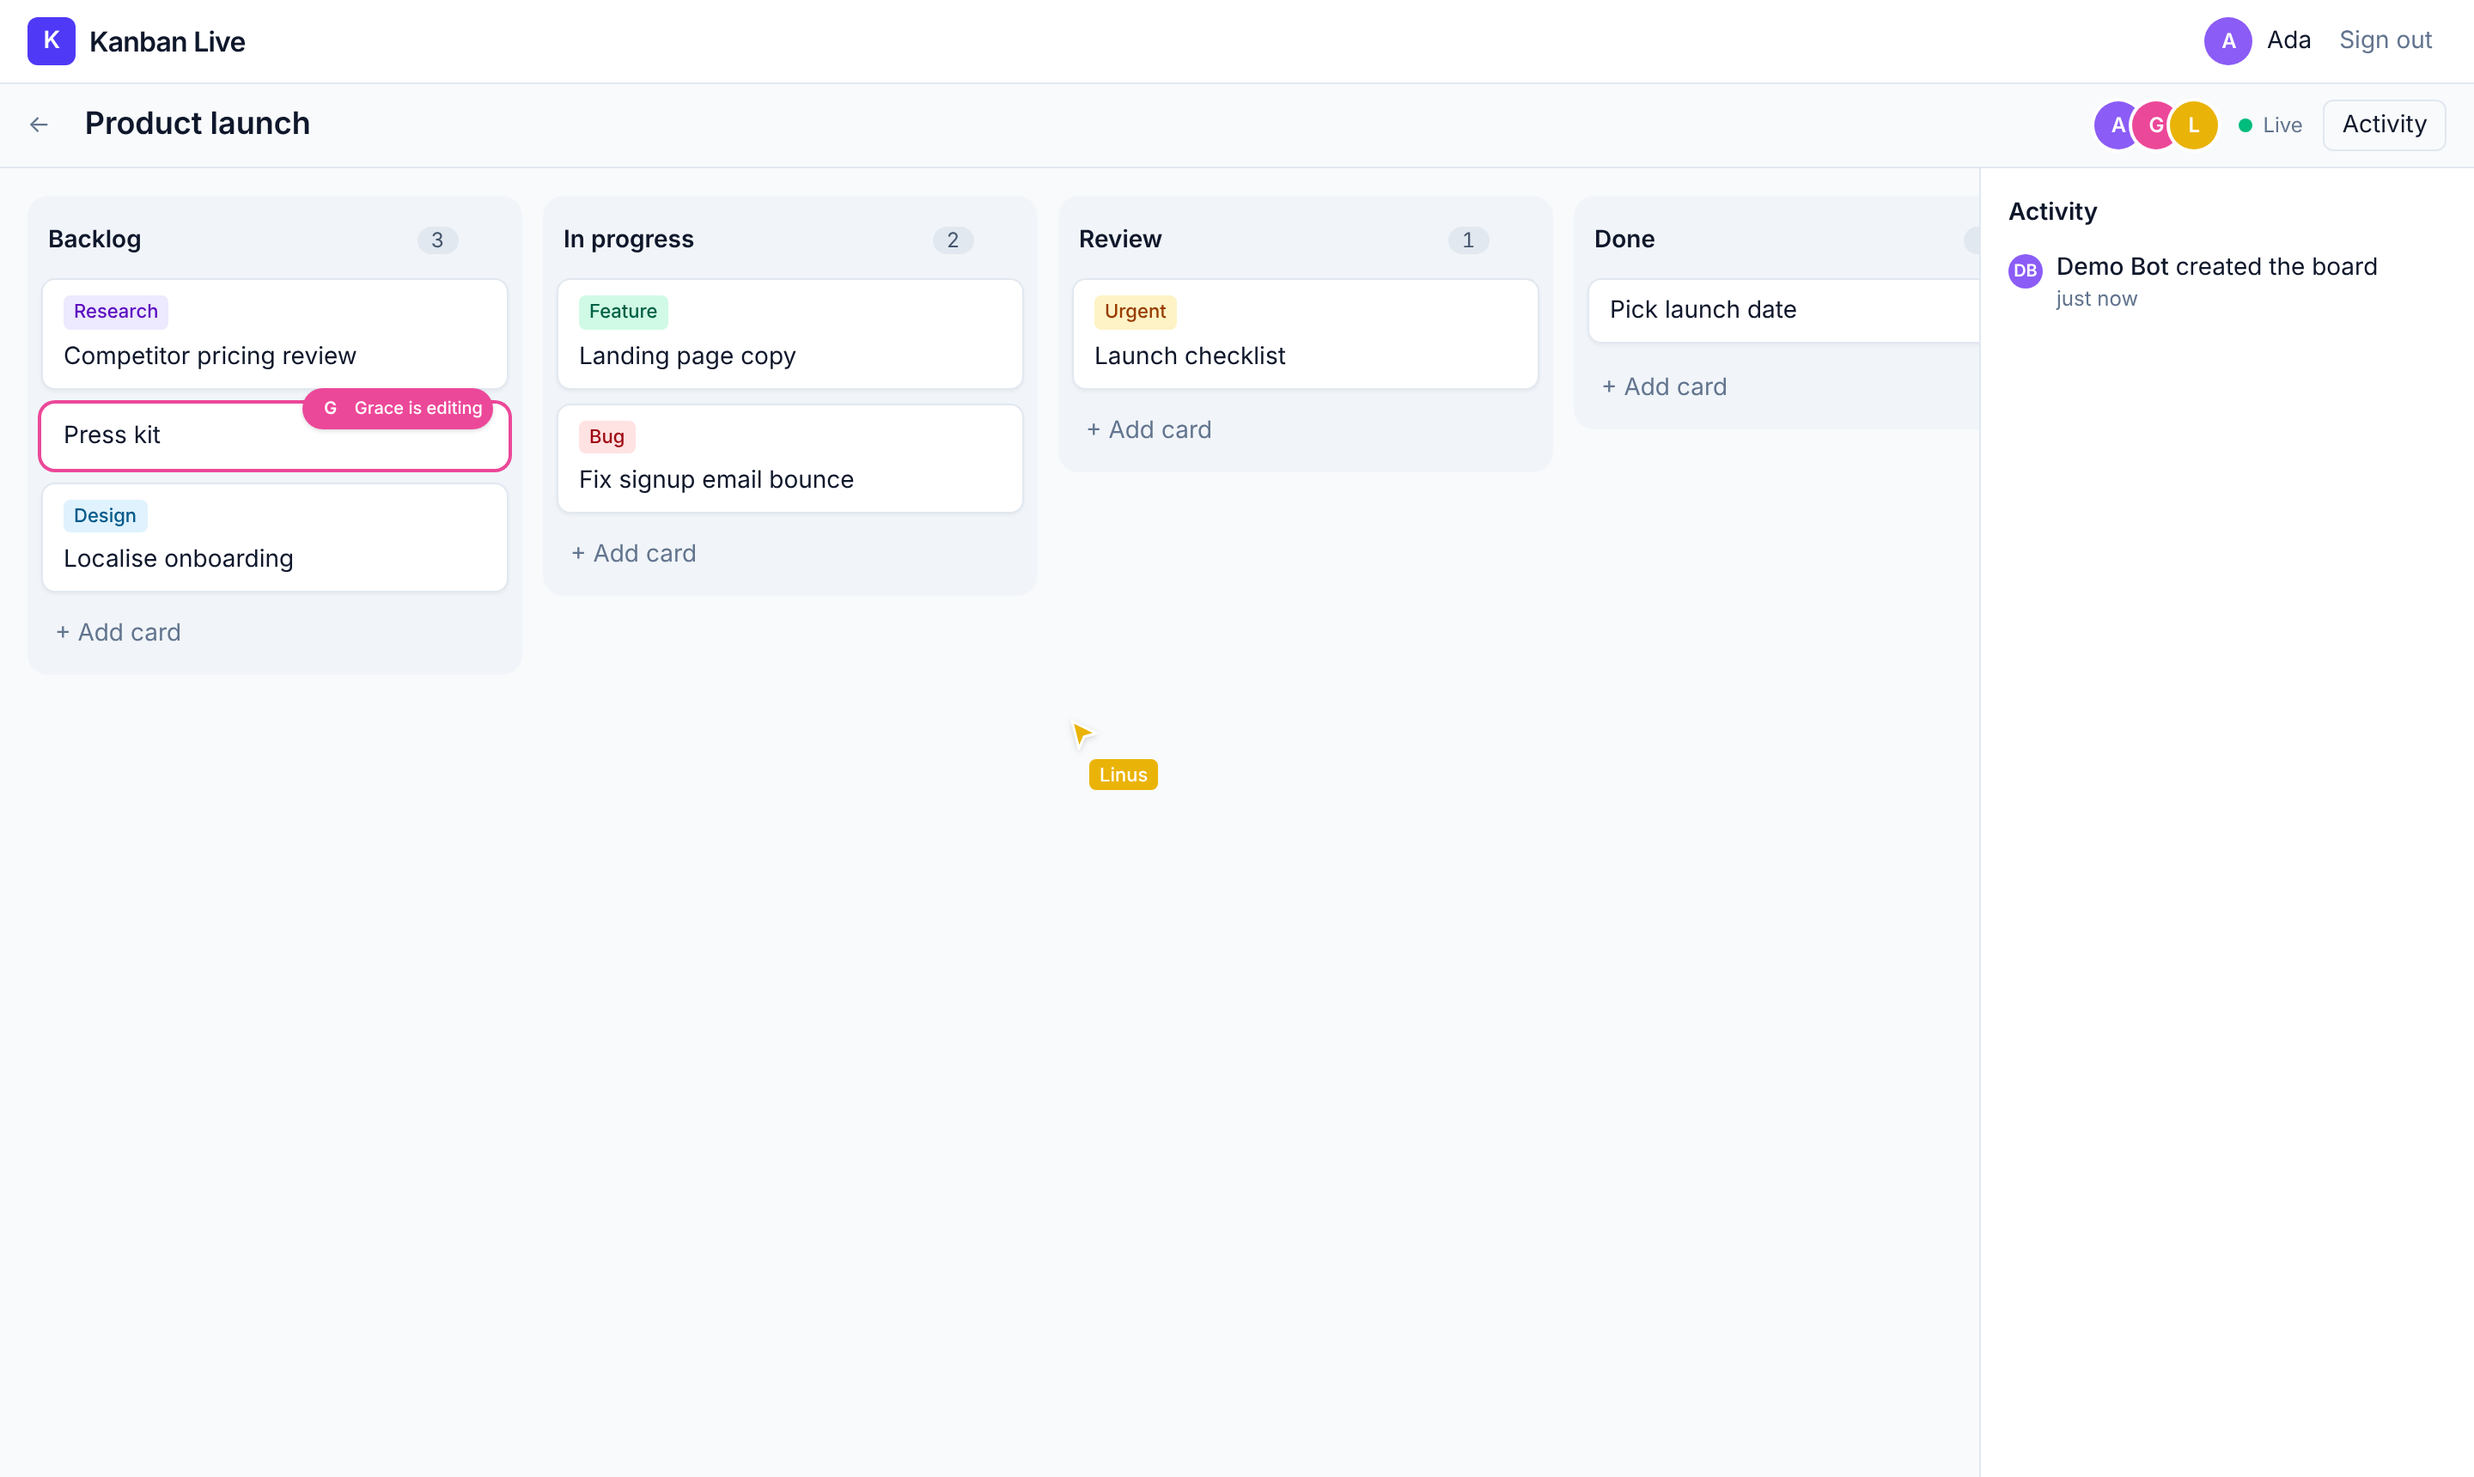
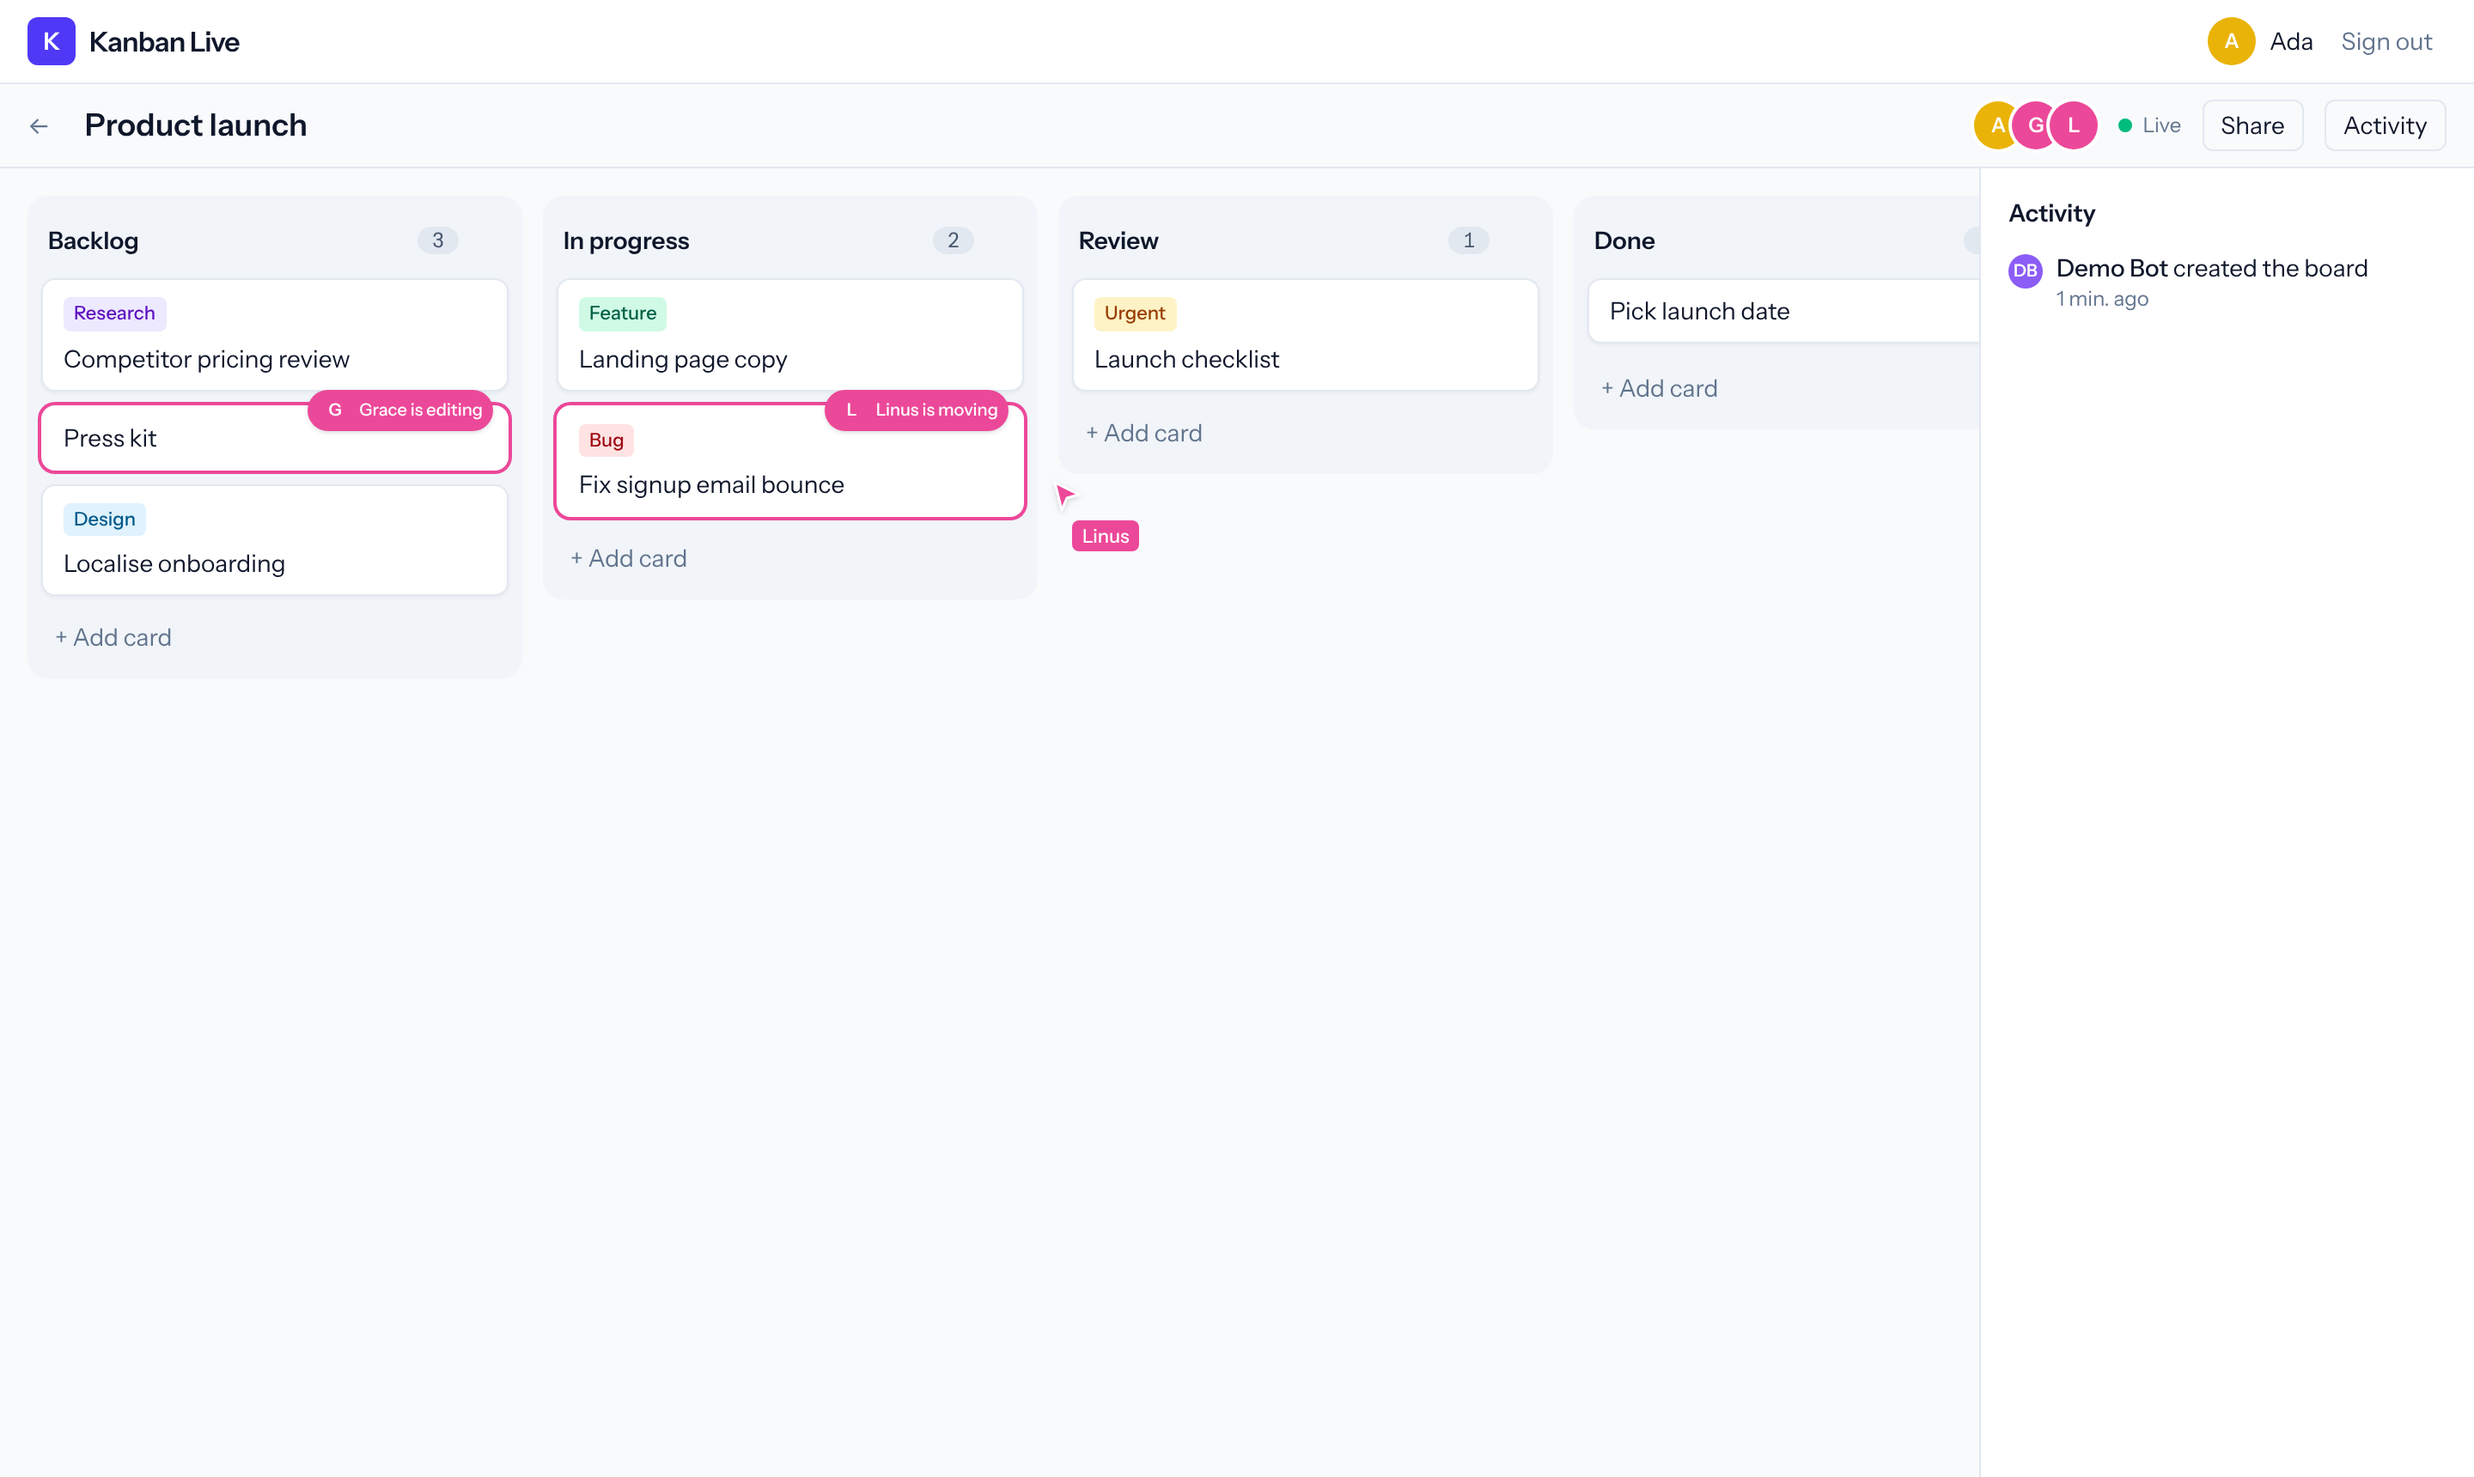
Regenerate README screenshots
The old ones predate membership and drag changes. The board shot now
shows the Share button and Linus mid-drag ("Linus is moving") next to
Grace's editing badge, and a new shot shows the Share dialog on a
private board with its invite link and members. Rendered in Instrument
Sans, the app's font.

Claude-Session: https://claude.ai/code/session_017nFfupb2TnByVd3cRXfH4r

diff --git a/README.md b/README.md
@@ -17,7 +17,7 @@ The project is about real-time, stateful work beyond plain request and response:
 **Stack:** Laravel 13 · PHP 8.4 · Laravel Reverb (WebSocket server, Pusher protocol) · Laravel Echo + pusher-js · Vue 3 ·
 Tailwind 4 · SQLite (any Laravel database works)
 
-![Three people on one board: Grace is editing "Press kit" and Linus's cursor is visible](docs/screenshot-board.png)
+![Three people on one board: Grace is editing "Press kit" while Linus drags "Fix signup email bounce", and his cursor is visible](docs/screenshot-board.png)
 
 <details>
 <summary>More screenshots</summary>
@@ -25,6 +25,10 @@ Tailwind 4 · SQLite (any Laravel database works)
 Grace's view while she edits the card, with Ada's cursor:
 
 ![The card dialog](docs/screenshot-editing.png)
+
+Sharing a private board: the invite link and its members:
+
+![The Share dialog](docs/screenshot-share.png)
 
 Phone width:
 
